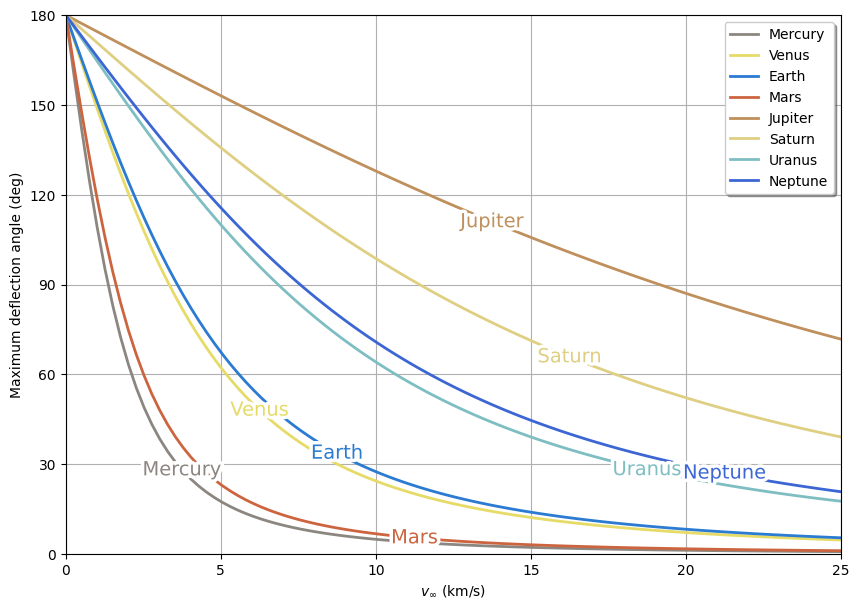
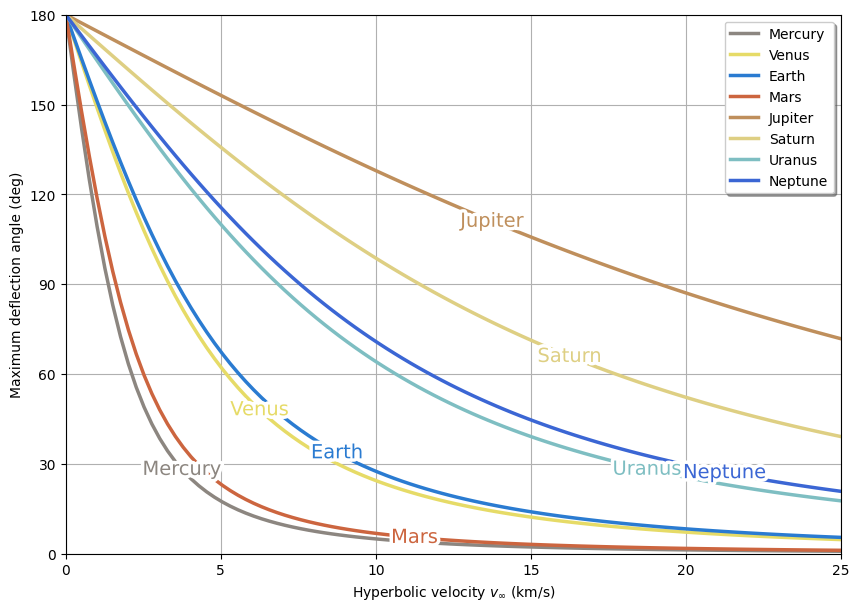
feat: gravity assist

diff --git a/src/04_alternate/gravity_assist_analysis.tex b/src/04_alternate/gravity_assist_analysis.tex
@@ -53,7 +53,65 @@ of $v_{\infty}$ at each planet of the solar system.
 
 \begin{figure}[H]
     \centering
-    \includegraphics[width=\textwidth]{fig/static/deflection_angle.png}
+    \includegraphics[width=0.9\textwidth]{fig/static/deflection_angle.png}
     \caption[Maximum deflection angle as a function of the speed of the spacecraft at different planets.]{Maximum deflection angle as a function of the speed of the spacecraft at different planets.}
     \label{fig:deflection-angle-at-speed}
 \end{figure}
+
+\begin{figure}[H]
+    \centering
+    \includegraphics[width=0.9\textwidth]{fig/static/max_energy.png}
+    \caption[Maximum energy increment as a function of the speed of the
+        spacecraft at different planets.]{Maximum energy increment as a function
+        of the speed of the spacecraft at different planets. Mean values for
+        planetary orbital speed were used.}
+    \label{fig:max-energy-at-speed}
+\end{figure}
+
+Looking at figure \ref{fig:deflection-angle-at-speed}, one could think that
+Jupiter woudl provide the highest increments in the characteristic energy since
+it provides the highest deflection angle for a given hyperbolic speed. However,
+figure \ref{fig:max-energy-at-speed} shows that the maximum energy increment
+depends on the planet.
+
+The relationship between the increment in the characteristic energy and the
+hyperbolic speed is not linear and is given by equation
+\ref{eq:energy-increment}:
+
+\begin{equation}
+        \Delta E = f_{\text{max}} E^{\ast} = f_{\text{max}} V_p v_{\infty}
+        \label{eq:energy-increment}
+\end{equation}
+
+where $f_{\text{max}}$ is the maximum energy increment factor given by equation
+\ref{eq:max-energy-increment-factor}:
+
+%def max_f(epsilon, max_psi):
+%    max_psi = np.deg2rad(max_psi)
+%
+%    if epsilon >= (np.pi - max_psi):
+%        f = (np.cos(epsilon) + 1) / 2
+%    else:
+%        f = (np.cos(epsilon) - np.cos(max_psi + epsilon)) / 2
+%    return f
+
+\begin{equation}
+        f_{\text{max}} = \begin{cases}
+            \frac{\cos{\epsilon} + 1}{2} & \text{if } \epsilon \geq \pi - \psi_{\max} \\
+            \frac{\cos{\epsilon} - \cos{\left(\psi_{\max} + \epsilon\right)}}{2} & \text{otherwise}
+        \end{cases}
+        \label{eq:max-energy-increment-factor}
+\end{equation}
+ 
+Note that for a certain hyperbolic speed, the maximum energy other planets
+rather than Jupiter may provide higher energy increments. For example, below
+$v_{\infty} < 10.00$ km/s, Venus and Earth are more efficient than Jupiter for
+$\psi_{\text{max}}$. The same happens for Mercury at $v_{\text{max}} < 5.00$
+km/s.
+
+Despite this analysis, it is important to note that the energy increment does
+not always take place at the maximum deflection angle. The orientation of the
+incoming hyperbolic speed vector and its magnitude will determine the state
+after the gravity assist. In fact, it may be possible that a gravity assist is
+not beneficial at all, requiring more fuel to insert the spacecraft into the
+right flyby trajectory and incresing the time of flight of the mission.

diff --git a/bin/max_energy_change.py b/bin/max_energy_change.py
@@ -1,0 +1,62 @@
+from astropy import units as u
+from matplotlib import pyplot as plt
+import numpy as np
+from labellines import labelLines
+
+from poliastro.bodies import Mercury, Venus, Earth, Mars, Jupiter, Saturn, Uranus, Neptune
+from poliastro.plotting.util import BODY_COLORS
+
+BODY_VELOCITIES = {
+    Mercury: 47.4 * u.km / u.s,
+    Venus: 35.0 * u.km / u.s,
+    Earth: 29.8 * u.km / u.s,
+    Mars: 24.1 * u.km / u.s,
+    Jupiter: 13.1 * u.km / u.s,
+    Saturn: 9.7 * u.km / u.s,
+    Uranus: 6.8 * u.km / u.s,
+    Neptune: 5.4 * u.km / u.s,
+}
+
+
+
+PLANETS = [Mercury, Venus, Earth, Mars, Jupiter, Saturn, Uranus, Neptune]
+
+def max_deflection_angle(k, vh, r):
+    return 2 * np.rad2deg(np.arcsin(k / (k + vh ** 2 * r)))
+
+def max_f(epsilon, max_psi):
+    max_psi = np.deg2rad(max_psi)
+
+    if epsilon >= (np.pi - max_psi):
+        f = (np.cos(epsilon) + 1) / 2
+    else:
+        f = (np.cos(epsilon) - np.cos(max_psi + epsilon)) / 2
+    return f
+    
+def max_energy_at_vh(planet, vh):
+    r = 2 * planet.R.to_value(u.km)
+    k = planet.k.to_value(u.km ** 3 / u.s ** 2)
+    max_psi = max_deflection_angle(k, vh, r)
+    E_star = 2 * vp * vh
+    epsilon = np.pi / 2
+    return max_f(epsilon, max_psi) * E_star
+
+vh_list = np.linspace(0, 25, 100)
+
+fig, ax = plt.subplots(figsize=(10, 7))
+ax.set_xlabel(r"Hyperbolic velocity ${v}_{\infty}$ (km/s)")
+ax.set_ylabel(r"Maximum energy increase (km$^2$/s$^2$)")
+ax.set_xlim(0, 25)
+ax.set_ylim(0, 200)
+
+for planet in PLANETS:
+    vp = BODY_VELOCITIES[planet].to_value(u.km / u.s)
+    energy = []
+    for vh in vh_list:
+        energy.append(max_energy_at_vh(planet, vh))
+
+    ax.plot(vh_list, energy, label=planet.name, color=BODY_COLORS[planet.name],
+            lw=2.5)
+
+labelLines(ax.get_lines(), align=False, fontsize=14)
+plt.savefig("fig/static/max_energy.png", bbox_inches="tight")

diff --git a/bin/deflection_angle.py b/bin/deflection_angle.py
@@ -16,7 +16,7 @@ def max_deflection_angle(k, vh, r):
 vh_values = np.linspace(0, 25, 100) * u.km / u.s
 
 fig, ax = plt.subplots(figsize=(10, 7))
-ax.set_xlabel(r"$v_{\infty}$ (km/s)")
+ax.set_xlabel(r"Hyperbolic velocity ${v}_{\infty}$ (km/s)")
 ax.set_ylabel(r"Maximum deflection angle (deg)")
 ax.set_xlim(0, 25)
 ax.set_ylim(0, 180)
@@ -32,7 +32,7 @@ for planet in planets:
       deflection_angles.append(max_deflection_angle(k, vh.to_value(u.km/u.s), r))
 
     ax.plot(vh_values, deflection_angles, label=planet.name,
-            color=BODY_COLORS[planet.name], lw=2)
+            color=BODY_COLORS[planet.name], lw=2.5)
 
 labelLines(ax.get_lines(), align=False, fontsize=14)
 ax.legend(shadow=True)
